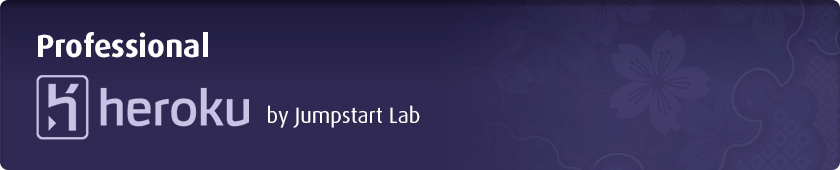
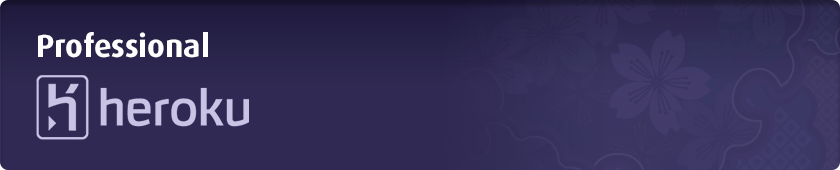
Heroku page tweaks.

Changed region(s): [[0.3095, 0.6176, 0.5262, 0.7353]]

diff --git a/public/css/styles.css b/public/css/styles.css
@@ -532,6 +532,7 @@ img.float-right {
   padding-left: 18px;
   background: url(/images/bullet.png) 0 8px no-repeat;
   }
+.bulleted-list.single li {margin-bottom: 8px;}
 
 .schedule {
   list-style: none;
@@ -660,10 +661,22 @@ img.float-right {
   font-weight: 500;
   font-size: 20px;
   }
+.aside h2.no-border {
+  margin-top: 0;
+  padding-top: 0;
+  border: none;
+  }
 .aside .events-list {line-height: 130%;}
 .aside .events-list li {margin-bottom: 24px;}
 .aside .events-list h3 {font-size: 16px;}
 .aside .events-list p {font-size: 14px;}
+.aside .thumb-nav {margin: 0 0 30px -10px;}
+.aside .thumb-nav li {
+  width: 43px;
+  margin: 0 0 0 10px;
+  border-radius: 5px;
+  }
+.aside .thumb-nav li img {border-radius: 4px;}
 
 /* Bottom section */
 
@@ -784,13 +797,22 @@ input[type="submit"]:hover, .btn a:hover {
 
 .btn a.ss-navigateright:after {padding-left: 8px; font-size: 12px;}
 
-.btn.big {margin: 60px 0;}
+.btn.big {margin: 50px 0;}
 .btn.big.center a {
+  padding: 14px 20px 15px;
+  line-height: 160%;
+  font-weight: normal;
+  font-size: 13px;
+  display: inline-block;
   -webkit-box-shadow: inset 0 1px 1px rgba(255, 255, 255, .32), -4px -4px 0 0 #f1f1f1, 4px -4px 0 0 #f1f1f1, -4px 4px 0 0 #f1f1f1, 4px 4px 0 0 #f1f1f1;
   -moz-box-shadow: inset 0 1px 1px rgba(255, 255, 255, .32), -4px -4px 0 0 #e9e9e9, 4px -4px 0 0 #e9e9e9, -4px 4px 0 0 #e9e9e9, 4px 4px 0 0 #e9e9e9;
   -o-box-shadow: inset 0 1px 1px rgba(255, 255, 255, .32), -4px -4px 0 0 #e9e9e9, 4px -4px 0 0 #e9e9e9, -4px 4px 0 0 #e9e9e9, 4px 4px 0 0 #e9e9e9;
   -ms-box-shadow: inset 0 1px 1px rgba(255, 255, 255, .32), -4px -4px 0 0 #e9e9e9, 4px -4px 0 0 #e9e9e9, -4px 4px 0 0 #e9e9e9, 4px 4px 0 0 #e9e9e9;
   box-shadow: inset 0 1px 1px rgba(255, 255, 255, .32), -4px -4px 0 0 #efefef, 4px -4px 0 0 #efefef, -4px 4px 0 0 #efefef, 4px 4px 0 0 #efefef;
+  }
+.btn.big.center strong {
+  font-size: 20px;
+  text-shadow: 0 -1px 0 rgba(0, 0, 0, .4);
   }
 
 .section form {float: left; margin: 10px 0 30px;}
@@ -811,3 +833,32 @@ input[type="submit"]:hover, .btn a:hover {
 .section input[type="text"] {width: 50%;}
 .section textarea {width: 540px; min-height: 140px;}
 .section input[type="text"] {clear: left;}
+
+/* Specific to Heroku one pager */
+
+.heroku-banner {
+  position: relative;
+  width: 840px;
+  height: 170px;
+  margin-bottom: 30px;
+  background: url("/images/heroku-banner.png") no-repeat;
+  color: #fff;
+  font-family: "ff-dax-web-pro", "PT Sans", "Helvetica Neue", sans-serif;
+  }
+.heroku-banner h1 {
+  display: none;
+  }
+.heroku-banner p {
+  position: absolute;
+  right: 40px;
+  bottom: 35px;
+  width: 335px;
+  margin: 0;
+  font-size: 18px;
+  }
+
+.money-back {
+  clear: both;
+  padding-top: 30px;
+  border-top: 1px solid #efefef;
+  }
